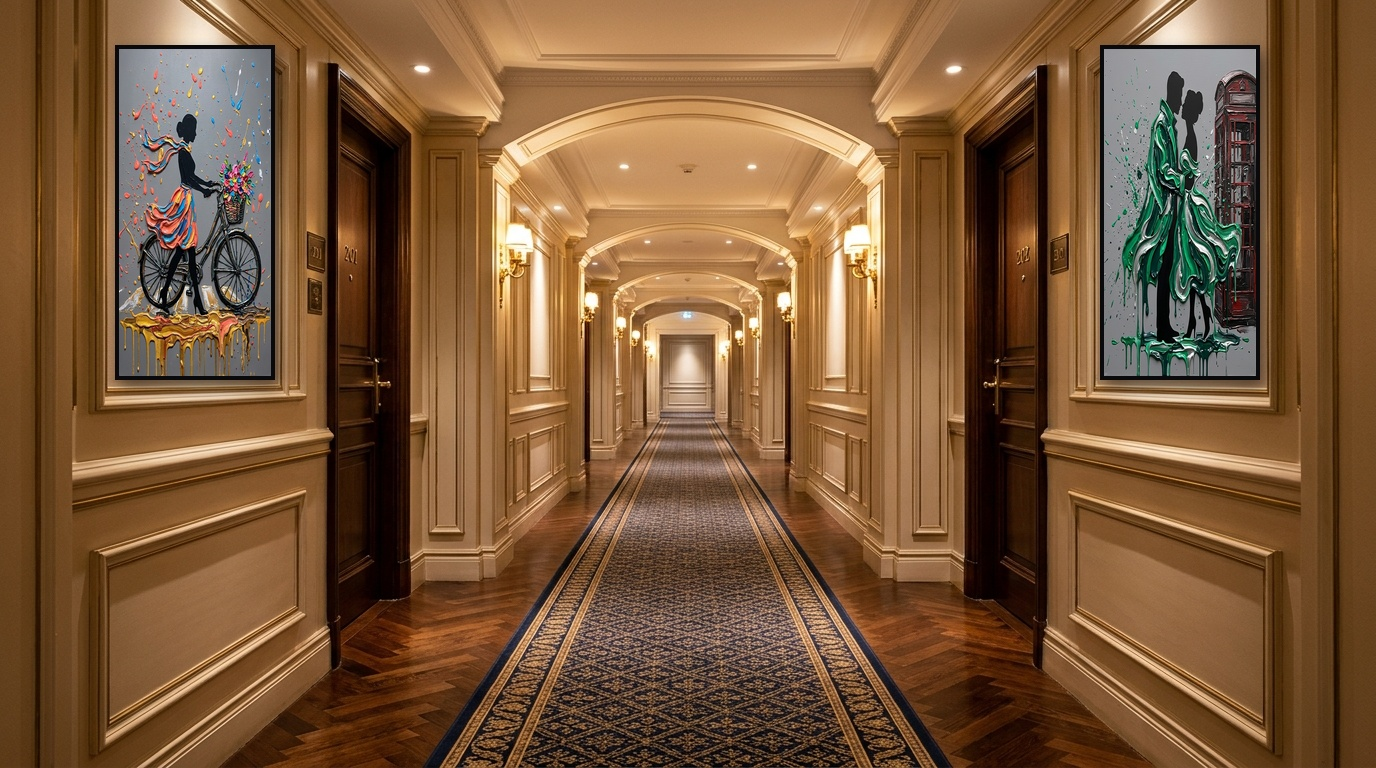
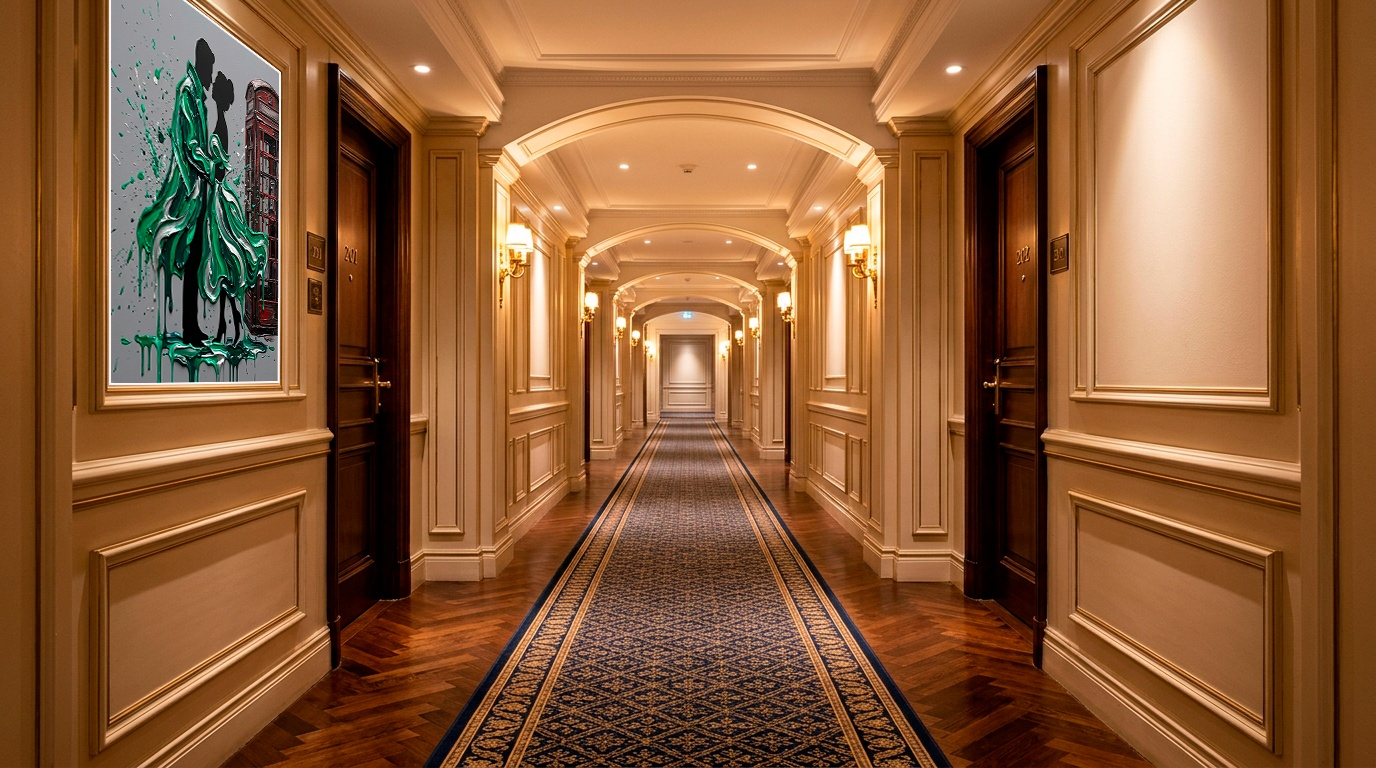
Integrate Photoshop perspective mockup by Eduardo for Ellos Bailan and hotel corridor

Changed region(s): [[0.0625, 0.0, 0.2188, 0.5312], [0.7812, 0.0312, 0.9375, 0.5312]]

diff --git a/coleccion_hoteles_moda.html b/coleccion_hoteles_moda.html
@@ -1061,8 +1061,8 @@
                 <div class="art-card">
                     <div class="art-thumb-box">
                         <img src="assets/serie_moda/ellos bailan.jpg" alt="Ellos Bailan" class="art-img-primary" onclick="openLightbox(this.src)">
-                        <img src="assets/hotel_mockups/insitu_ellos_bailan.jpg" alt="Ellos Bailan en Lobby de Lujo" class="art-img-hover" onclick="openLightbox(this.src)">
-                        <span class="hover-pill-badge">🏨 Ver en Lobby 7★</span>
+                        <img src="assets/hotel_mockups/insitu_ellos_bailan.jpg" alt="Ellos Bailan en Pasillo Noble de Hotel" class="art-img-hover" onclick="openLightbox(this.src)">
+                        <span class="hover-pill-badge">🏨 Ver en Pasillo Noble</span>
                     </div>
                     <div class="art-content">
                         <h4 class="art-title">Ellos Bailan</h4>
@@ -1070,7 +1070,7 @@
                         <p class="art-desc">Abrazo íntimo frente a la cabina londinense envuelto en una cascada de óleo esmeralda y textura matérica en relieve.</p>
                         <div class="art-footer-meta">
                             <span>Medida: <strong>80x120 cm</strong></span>
-                            <span>Uso: <strong>Suite Deluxe / Lobby</strong></span>
+                            <span>Uso: <strong>Pasillo Noble / Suite</strong></span>
                         </div>
                     </div>
                 </div>
@@ -1245,9 +1245,9 @@
             pasillo: {
                 img: 'assets/hotel_mockups/pasillo_hotel_galeria.jpg',
                 title: 'Galería de Pasillos Nobles de Hotel 5 Estrellas',
-                desc: 'Secuencia rítmica de obras verticales integradas en las molduras del pasillo con luz cálida de apliques.',
-                art: 'La Chica en Bici & Ellos Bailan (Serie)',
-                size: '70 x 100 cm cada pieza'
+                desc: 'Obra en formato vertical integrada con fuga de perspectiva en las molduras del pasillo noble.',
+                art: 'Ellos Bailan (The London Dance)',
+                size: '80 x 120 cm'
             },
             lobby: {
                 img: 'assets/hotel_mockups/lobby_kuwait_ellos_bailan.jpg',
